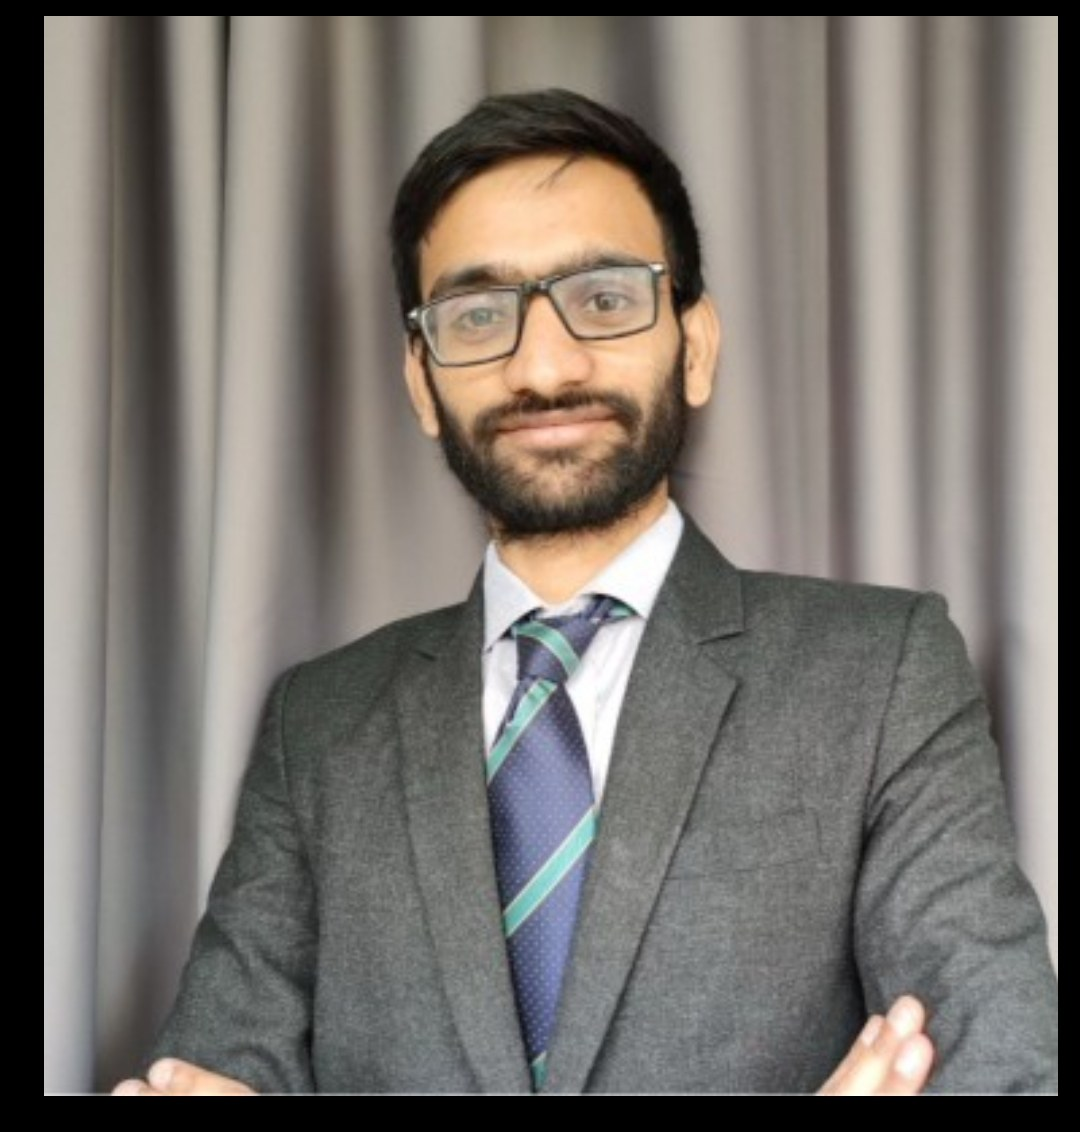
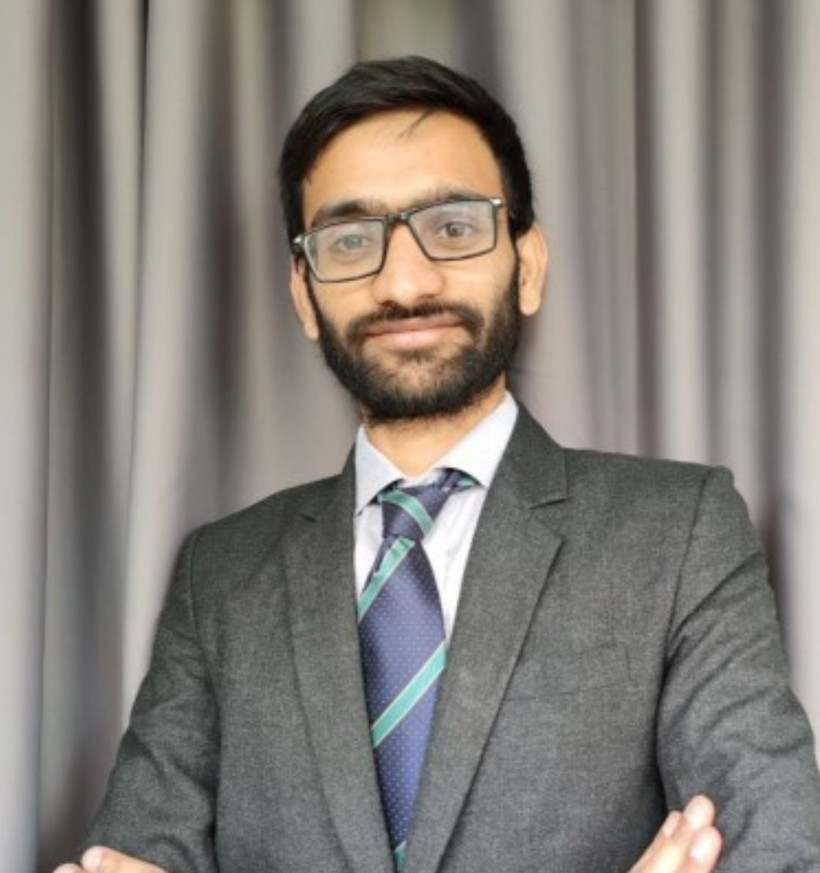
Add files via upload

diff --git a/app.js b/app.js
@@ -41,21 +41,32 @@ const mock={
 
 /* ---------- SUPABASE data layer ---------- */
 let sb;const ok=r=>{if(r.error)throw r.error;return r.data};
-const token=async()=>{const{data:{session}}=await sb.auth.getSession();return session?.access_token};
-const api=async(path,opts={})=>{const t=await token();
- const r=await fetch(API_BASE+path,{...opts,headers:{'Content-Type':'application/json',...(t?{Authorization:`Bearer ${t}`}:{}),...opts.headers}});
- const data=await r.json().catch(()=>({}));if(!r.ok||data.success===false)throw Error(data.message||'Request failed');return data};
 const real={
  async me(){const{data:{session}}=await sb.auth.getSession();if(!session)return null;return ok(await sb.from('profiles').select('*').eq('id',session.user.id).single())},
  async signUp(name,email,phone,pw){ok(await sb.auth.signUp({email,password:pw,options:{data:{name,phone}}}));return this.me()},
  async signIn(email,pw){ok(await sb.auth.signInWithPassword({email,password:pw}));return this.me()},
  async signOut(){await sb.auth.signOut()},
  async events(){return ok(await sb.from('events').select('*').order('date'))},
- async saveEvent(ev){const{id,...f}=ev;const d=id?await api(`/api/events/${id}`,{method:'PUT',body:JSON.stringify(f)}):await api('/api/events',{method:'POST',body:JSON.stringify(f)});return 0},
- async delEvent(id){await api(`/api/events/${id}`,{method:'DELETE'})},
- async register(id){const d=await api('/api/registrations',{method:'POST',body:JSON.stringify({eventId:id})});return{...d.registration,payment:d.payment}},
- async paymentInfo(regId){const d=await api(`/api/registrations/${regId}/order`);return d.payment},
- async verifyPayment(body){return(await api('/api/payments/verify',{method:'POST',body:JSON.stringify(body)})).registration},
+ async _srv(method,path,body){const{data:{session}}=await sb.auth.getSession();if(!session)throw Error('Please log in');
+  const res=await fetch(SERVER_URL+path,{method,headers:{'Content-Type':'application/json',Authorization:'Bearer '+session.access_token},body:body?JSON.stringify(body):undefined});
+  const j=await res.json().catch(()=>({}));if(!res.ok||!j.success)throw Error(j.message||'Something went wrong. Please try again');return j},
+ async saveEvent(ev){const{id,...f}=ev;await(id?this._srv('PUT','/api/events/'+id,f):this._srv('POST','/api/events',f));return 0},
+ async delEvent(id){await this._srv('DELETE','/api/events/'+id)},
+ async register(id){const{data:{session}}=await sb.auth.getSession();if(!session)throw Error('Please log in');
+  const res=await fetch(SERVER_URL+'/api/registrations',{method:'POST',headers:{'Content-Type':'application/json',Authorization:'Bearer '+session.access_token},body:JSON.stringify({eventId:id})});
+  const j=await res.json().catch(()=>({}));if(!res.ok||!j.success)throw Error(j.message||'Could not register. Please try again');return j.registration},
+ async pay(id){const{data:{session}}=await sb.auth.getSession();if(!session)throw Error('Please log in');
+  const H={'Content-Type':'application/json',Authorization:'Bearer '+session.access_token};
+  const hl=await(await fetch(SERVER_URL+'/api/health')).json().catch(()=>({}));
+  const reg=ok(await sb.from('registrations').select('order_id,amount,code').eq('id',id).single());
+  const verify=async(o,p,sg)=>{const res=await fetch(SERVER_URL+'/api/payments/verify',{method:'POST',headers:H,body:JSON.stringify({registrationId:id,razorpay_order_id:o,razorpay_payment_id:p,razorpay_signature:sg})});const j=await res.json().catch(()=>({}));if(!res.ok||!j.success)throw Error(j.message||'Payment failed. Please try again')};
+  if(hl.payments==='mock')return verify(reg.order_id,'mock_pay_'+Date.now(),'mock_signature');
+  if(hl.payments!=='razorpay'||!hl.keyId)throw Error('Online payment is being set up. Please try again soon.');
+  if(!window.Razorpay)await new Promise((res,no)=>{const sc=document.createElement('script');sc.src='https://checkout.razorpay.com/v1/checkout.js';sc.onload=res;sc.onerror=()=>no(Error('Could not load the payment window. Check your internet.'));document.head.appendChild(sc)});
+  return new Promise((res,no)=>{const rz=new Razorpay({key:hl.keyId,order_id:reg.order_id,amount:Math.round(reg.amount*100),currency:'INR',name:'EventKalam',description:'Registration '+reg.code,
+   handler:r=>verify(r.razorpay_order_id,r.razorpay_payment_id,r.razorpay_signature).then(res,no),
+   modal:{ondismiss:()=>no(Error('Payment cancelled. Your seat is held. You can pay later from My registrations.'))}});
+   rz.on('payment.failed',e=>no(Error((e.error&&e.error.description)||'Payment failed')));rz.open()})},
  async cancel(id){ok(await sb.rpc('cancel_registration',{p_reg:id}))},
  async myRegs(u){return ok(await sb.from('registrations').select('*,events(*)').eq('user_id',u).order('created_at',{ascending:false}))},
  async allRegs(){return ok(await sb.from('registrations').select('*,profiles(name,email,phone),events(title,date)').order('created_at',{ascending:false}))},
@@ -65,7 +76,7 @@ let API=mock,ME=null,MODE='in',NEXT='',TAB='home',EV=[],MY=[],AE=[],AR=[],AM=[];
 
 /* ---------- views ---------- */
 const nav=()=>`${API===mock?'<div class="demo">Demo mode: data stays in this browser only. Admin login: admin@demo.com / admin123</div>':''}
-<header class="nav"><a class="brand" href="#/"><img src="logo.png" alt="Robokalam" width="30" height="30">EventKalam</a><nav><a href="#/">Home</a><a href="#/events">Events</a><a href="#/about">About</a><a href="#/showcase">Showcase</a><a href="#" data-a="scrollContact">Contact</a>${ME?'<a href="#/my">My registrations</a>':''}${ME?.role==='admin'?'<a href="#/admin">Admin</a>':''}
+<header class="nav"><a class="brand logo-brand" href="#/" aria-label="EventKalam home"><img class="logo" src="logo.png" alt="">EventKalam</a><nav><a href="#/">Home</a><a href="#/events">Events</a><a href="#/about">About</a><a href="#/showcase">Showcase</a><a href="#" data-a="scrollContact">Contact</a>${ME?'<a href="#/my">My registrations</a>':''}${ME?.role==='admin'?'<a href="#/admin">Admin</a>':''}
 ${ME?`<button class="btn sm ghost" data-a="logout">Log out (${h(ME.name.split(' ')[0])})</button>`:'<a class="btn sm" href="#/login">Log in</a>'}</nav></header>`;
 const footer=()=>`<footer class="site-footer" id="footer-contact"><div class="foot-grid">
 <div><h4>EventKalam</h4><p>Robokalam's event booking and management platform — discover, register and manage tech events with ease.</p></div>
@@ -101,7 +112,10 @@ async function vHome(){EV=(await API.events()).filter(e=>e.status==='published'&
 
  <div class="founder-teaser card reveal"><img src="founder.jpg" alt="Mohammed Sajeed, Founder of Robokalam">
  <div><p class="eyebrow">From our founder</p><blockquote>"My vision is to make Robokalam a globally recognised benchmark in technology development and STEM innovation — inspiring young minds and supporting digital transformation."</blockquote>
- <p><b>Mohammed Sajeed</b> <span class="mu">· Founder, Robokalam</span></p><a href="#/about">Meet the team →</a></div></div>
+ <p><b>Mohammed Sajeed</b> <span class="mu">· Founder, Robokalam</span></p><a href="#/about">Read his full story →</a></div></div>
+ <div class="founder-teaser card reveal"><img class="cof" src="cofounder.jpg" alt="Raja Sekhar Thota, Co-Founder">
+ <div><p class="eyebrow">Our co-founder</p><p style="margin:4px 0">Building technology at the intersection of Artificial Intelligence, Blockchain and Cybersecurity.</p>
+ <p><b>Raja Sekhar Thota</b> <span class="mu">· Co-Founder</span></p><a href="#/about">Read more →</a></div></div>
 
  <section class="closing-cta reveal"><h2>Ready to build tomorrow with us?</h2><p>Create your free account and grab a seat at the next event.</p><a class="btn big glow" href="${ME?'#/events':'#/login'}">${ME?'Browse Events':'Get Started'}</a></section>`}
 function grid(){const q=$('#q').value.toLowerCase(),c=$('#cat').value,t=$('#city').value.toLowerCase();
@@ -113,7 +127,7 @@ async function vEvent(id){const e=(await API.events()).find(x=>x.id===id);if(!e)
  return `<a href="#/">Back to events</a><div class="card pad" style="margin-top:8px"><span class="chip">${h(e.category)}</span> ${chip(e.status)}<h1>${h(e.title)}</h1>
  <div class="facts"><div><small>Date</small>${fmt(e.date)}</div><div><small>Time</small>${h(e.start_time)} to ${h(e.end_time)}</div><div><small>Venue</small>${h(e.venue)}, ${h(e.city)}</div><div><small>Fee</small>${rs(e.price)}</div><div><small>Seats left</small>${left(e)} of ${e.capacity}</div></div>
  <p class="desc">${h(e.description)}</p>${b}</div>`}
-function vAbout(){return `<div class="section-h"><h2>About Robokalam</h2><p>The people and vision behind EventKalam.</p></div>
+function vAbout(){return `<div class="section-h"><h2>About Robokalam</h2><p>The team and vision behind EventKalam.</p></div>
 <div class="card founder"><img src="founder.jpg" alt="Mohammed Sajeed, Founder of Robokalam">
 <div><p class="role">Founder, Robokalam</p><h2>Mohammed Sajeed</h2>
 <p>Sajeed Sir, the Founder of Robokalam, is a visionary leader passionate about technology, innovation, and creating meaningful opportunities for students and organisations. His work reflects a strong commitment to integrity, trust, transparency, accountability and professionalism.</p>
@@ -121,13 +135,11 @@ function vAbout(){return `<div class="section-h"><h2>About Robokalam</h2><p>The 
 <blockquote>"My vision is to make Robokalam a globally recognised benchmark in technology development and STEM innovation — inspiring young minds and supporting digital transformation for forward-thinking organisations."</blockquote>
 <p style="margin-top:14px"><a href="https://robokalam.com/" target="_blank" rel="noopener">Learn more at robokalam.com →</a></p>
 </div></div>
-
-<div class="card founder"><img src="cofounder.jpg" alt="Raja Sekhar Thota, Co-Founder">
+<div class="card founder"><img class="cof" src="cofounder.jpg" alt="Raja Sekhar Thota, Co-Founder">
 <div><p class="role">Co-Founder</p><h2>Raja Sekhar Thota</h2>
-<p>Raja Sekhar Thota is a serial entrepreneur building technology at the intersection of AI, blockchain and cybersecurity. He is also CTO &amp; Co-Founder of AuditOne GmbH, and studied at FOM University of Applied Sciences for Economics and Management.</p>
-<p>His technical leadership and startup experience feed directly into how Robokalam builds and ships its own products, including EventKalam.</p>
+<p>Raja Sekhar Thota is the CTO and Co-Founder of AuditOne GmbH and a serial entrepreneur. He builds technology at the intersection of Artificial Intelligence, Blockchain and Cybersecurity.</p>
+<p>He studied at FOM University of Applied Sciences for Economics and Management.</p>
 </div></div>
-
 <div class="value-grid">${['Integrity','Trust','Transparency','Accountability','Professionalism'].map(v=>`<div class="card">${v}</div>`).join('')}</div>
 <div class="section-h"><h2>Our Team</h2><p>Behind every Robokalam event is a team of mentors, interns and volunteers.</p></div>
 <div class="card team-note pad">Robokalam is powered by a dedicated group of employees, mentors and student interns who run workshops, hackathons and open-mic events across Telangana. Team profiles are being added soon.</div>`}
@@ -180,13 +192,7 @@ function drawRegs(){$('#rt').innerHTML=filt().map(r=>`<tr><td><b>${h(r.code)}</b
 const closeM=()=>$('#m')?.remove();
 const modal=x=>{closeM();const m=document.createElement('div');m.id='m';m.className='modal';m.innerHTML=`<div class="card pad box">${x}</div>`;document.body.appendChild(m)};
 const ask=(msg,a,id)=>modal(`<p>${msg}</p><div class="row"><button class="btn ghost" data-a="closeM">Keep it</button><button class="btn danger" data-a="${a}" data-id="${id}">Yes, continue</button></div>`);
-const payModal=r=>{if(API===mock)return modal(`<h3>Complete payment</h3><p>Registration <b>${h(r.code)}</b></p><div class="amt">${rs(r.amount)}</div><p class="mu">Demo payment: no real money is charged.</p><button class="btn big" data-a="pay" data-id="${r.id}">Pay ${rs(r.amount)}</button><p><button class="btn ghost big" data-a="later">Pay later (seat is held)</button></p>`);
- const mockPay=r.payment?.mode==='mock';
- modal(`<h3>Complete payment</h3><p>Registration <b>${h(r.code)}</b></p><div class="amt">${rs(r.amount)}</div>
- <p class="mu">${mockPay?'Test mode: no real payment gateway keys are set on the server yet.':'You will be taken to Razorpay to complete payment securely.'}</p>
- <button class="btn big" data-a="openRazorpay" data-id="${r.id}">Pay ${rs(r.amount)}</button><p><button class="btn ghost big" data-a="later">Pay later (seat is held)</button></p>`)};
-let RZP_CTX={};
-const loadRazorpay=()=>new Promise((res,rej)=>{if(window.Razorpay)return res();const s=document.createElement('script');s.src='https://checkout.razorpay.com/v1/checkout.js';s.onload=res;s.onerror=()=>rej(Error('Could not load the payment gateway'));document.head.appendChild(s)});
+const payModal=r=>modal(`<h3>Complete payment</h3><p>Registration <b>${h(r.code)}</b></p><div class="amt">${rs(r.amount)}</div><p class="mu">${API===mock?'Demo payment: no real money is charged.':'Test payment. Razorpay is added in the next step.'}</p><button class="btn big" data-a="pay" data-id="${r.id}">Pay ${rs(r.amount)}</button><p><button class="btn ghost big" data-a="later">Pay later (seat is held)</button></p>`);
 const evForm=e=>{e=e||{status:'draft',category:CATS[0],capacity:50,price:0};const opt=(l,v)=>l.map(c=>`<option ${c===v?'selected':''}>${c}</option>`).join('');
  modal(`<h3>${e.id?'Edit event':'New event'}</h3><form data-f="ev"><input type="hidden" name="id" value="${e.id||''}"><label>Title<input name="title" required maxlength="120" value="${h(e.title)}"></label><label>Description<textarea name="description" required rows="3">${h(e.description)}</textarea></label>
  <div class="two"><label>Category<select name="category">${opt(CATS,e.category)}</select></label><label>Status<select name="status">${opt(['draft','published','cancelled','completed'],e.status)}</select></label><label>Date<input type="date" name="date" required value="${e.date||''}"></label><label>City<input name="city" required value="${h(e.city)}"></label>
@@ -202,22 +208,14 @@ const A={closeM,
   document.body.appendChild(lb);lb.addEventListener('click',e=>{if(e.target===lb)closeM()})},
  mode(){MODE=MODE==='in'?'up':'in';route()},
  async logout(){await API.signOut();ME=null;go('#/')},
- async reg(id){if(!ME){NEXT=location.hash;toast('Log in to register for this event');return go('#/login')}const r=await API.register(id);RZP_CTX[r.id]=r;if(r.payment||+r.amount>0)return payModal(r);toast('Registered. Your ID is '+r.code);go('#/my')},
+ async reg(id){if(!ME){NEXT=location.hash;toast('Log in to register for this event');return go('#/login')}const r=await API.register(id);if(+r.amount>0)return payModal(r);toast('Registered. Your ID is '+r.code);go('#/my')},
  async pay(id){await API.pay(id);closeM();toast('Payment received. Seat confirmed.');go('#/my')},
- async openRazorpay(id){const r=RZP_CTX[id];const p=r.payment;
-  if(p.mode==='mock'){await API.verifyPayment({registrationId:id,razorpay_order_id:p.orderId,razorpay_payment_id:'mock_pay_'+id,razorpay_signature:'mock_signature'});closeM();toast('Test payment accepted. Seat confirmed.');return go('#/my')}
-  closeM();await loadRazorpay();
-  new window.Razorpay({key:p.keyId,amount:p.amount,currency:p.currency,order_id:p.orderId,name:'EventKalam',description:'Registration '+r.code,
-   prefill:{name:ME.name,email:ME.email,contact:ME.phone},
-   handler:resp=>run(async()=>{await API.verifyPayment({registrationId:id,razorpay_order_id:resp.razorpay_order_id,razorpay_payment_id:resp.razorpay_payment_id,razorpay_signature:resp.razorpay_signature});toast('Payment received. Seat confirmed.');go('#/my')}),
-   modal:{ondismiss:()=>toast('Payment not completed. You can pay again from My registrations.')}}).open()},
  later(){closeM();toast('Seat held. Pay from My registrations.');go('#/my')},
- async payNow(id){const r=MY.find(x=>x.id===id);if(API!==mock)r.payment=await API.paymentInfo(id);RZP_CTX[id]=r;payModal(r)},
+ payNow(id){payModal(MY.find(x=>x.id===id))},
  cancel(id){ask('Cancel this registration? A paid registration is flagged for refund.','cancelYes',id)},
  async cancelYes(id){await API.cancel(id);closeM();toast('Registration cancelled');route()},
  tab(t){TAB=t;route()},newEv(){evForm()},editEv(id){evForm(AE.find(e=>e.id===id))},
- async toggle(id){const e=AE.find(x=>x.id===id),wasPublished=e.status==='published',n=await API.saveEvent({id,status:wasPublished?'draft':'published'});
-  toast(n?`Published. Announcement email would go to ${n} members (demo).`:wasPublished?'Unpublished':'Published — announcement emails are being sent');route()},
+ async toggle(id){const e=AE.find(x=>x.id===id),n=await API.saveEvent({id,status:e.status==='published'?'draft':'published'});toast(n?`Published. Announcement email would go to ${n} members (demo).`:'Status updated');route()},
  delEv(id){ask('Delete this event permanently?','delYes',id)},
  async delYes(id){await API.delEvent(id);closeM();toast('Event deleted');route()},
  csv(){const c=v=>{let s=String(v??'');if(/^[=+\-@]/.test(s))s="'"+s;return'"'+s.replace(/"/g,'""')+'"'};
@@ -233,7 +231,7 @@ const F={
   toast('Welcome, '+ME.name);const n=NEXT;NEXT='';go(n||(ME.role==='admin'?'#/admin':'#/'))},
  async ev(f){const d=Object.fromEntries(new FormData(f));if(!d.id)delete d.id;d.capacity=+d.capacity;d.price=+d.price;d.image_url=d.image_url||null;
   const old=d.id&&AE.find(e=>e.id===d.id);if(old&&d.capacity<old.registered_count)throw Error('Capacity cannot be below current registrations ('+old.registered_count+')');
-  const n=await API.saveEvent(d);closeM();toast(n?`Event saved. Announcement email would go to ${n} members (demo).`:d.status==='published'?'Event saved — announcement emails are being sent':'Event saved');route()}
+  const n=await API.saveEvent(d);closeM();toast(n?`Event saved. Announcement email would go to ${n} members (demo).`:'Event saved');route()}
 };
 const run=async fn=>{try{await fn()}catch(e){toast(e.message||'Something went wrong',1)}};
 document.addEventListener('click',e=>{const b=e.target.closest('[data-a]');if(!b)return;e.preventDefault();run(()=>A[b.dataset.a](b.dataset.id))});

diff --git a/style.css b/style.css
@@ -10,8 +10,8 @@ h1,h2,h3{line-height:1.25;margin:.4em 0;font-family:'Poppins',system-ui,sans-ser
 .wrap{max-width:1000px;margin:auto;padding:16px}
 .demo{background:var(--warn);color:#fff;padding:6px 12px;font-size:13px;text-align:center}
 .nav{position:sticky;top:env(safe-area-inset-top,0px);z-index:20;display:flex;justify-content:space-between;align-items:center;gap:8px;flex-wrap:wrap;padding:10px 16px;background:var(--card);border-bottom:1px solid var(--ln);backdrop-filter:saturate(1.4) blur(6px)}
-.brand{font-weight:800;font-family:'Poppins',sans-serif;font-size:1.2rem;color:var(--tx);display:flex;align-items:center;gap:8px}
-.brand img{flex-shrink:0;border-radius:8px;object-fit:contain;background:#fff;padding:2px}
+.brand{font-weight:800;font-family:'Poppins',sans-serif;font-size:1.2rem;color:var(--tx);display:flex;align-items:center;gap:6px}
+.brand::before{content:'';width:9px;height:9px;border-radius:3px;background:linear-gradient(135deg,var(--pr),var(--ac));display:inline-block}
 .nav nav{display:flex;gap:14px;align-items:center;flex-wrap:wrap}
 .nav nav a{color:var(--mu);font-weight:600;font-size:14px;transition:color .15s}
 .nav nav a:hover,.nav nav a.cur{color:var(--pr)}
@@ -122,3 +122,9 @@ label{display:block;margin:8px 0;font-size:13px;color:var(--mu)}label input,labe
 .quick-grid{display:grid;grid-template-columns:repeat(auto-fit,minmax(160px,1fr));gap:12px;margin:16px 0 26px}
 .quick{text-align:left;cursor:pointer;display:flex;flex-direction:column;gap:4px;border:1px solid var(--ln)}
 .qicon{font-size:22px}
+/* ---- logo + co-founder ---- */
+.brand.logo-brand::before{display:none}
+.logo{height:38px;width:auto;display:block;background:#fff;border-radius:10px;padding:2px 4px}
+.brand.logo-brand{gap:8px}
+.founder+.founder{margin-top:16px}
+.cof{object-position:50% 20%}

diff --git a/config.js b/config.js
@@ -1,5 +1,4 @@
 /* ========= CONNECT TO SUPABASE: paste your two values here. Leave empty = demo mode ========= */
 const SUPABASE_URL = 'https://wnvuszeifclfpogcnlka.supabase.co';
 const SUPABASE_KEY = 'sb_publishable_XIBCtPmqqDV_yAkxmLKdiA_I0p_cTMM'; // publishable key (safe in the browser)
-/* ========= CONNECT TO THE EXPRESS SERVER: paste the Render URL here once deployed ========= */
-const API_BASE = 'https://eventkalam-server.onrender.com';
+const SERVER_URL = 'https://eventkalam-server.onrender.com'; // your EventKalam server on Render

diff --git a/index.html b/index.html
@@ -4,7 +4,7 @@
 <meta charset="utf-8">
 <meta name="viewport" content="width=device-width, initial-scale=1, viewport-fit=cover">
 <title>EventKalam</title>
-<link rel="icon" type="image/png" href="logo.png">
+<link rel="icon" type="image/png" href="favicon.png">
 <link rel="stylesheet" href="style.css">
 </head>
 <body>
